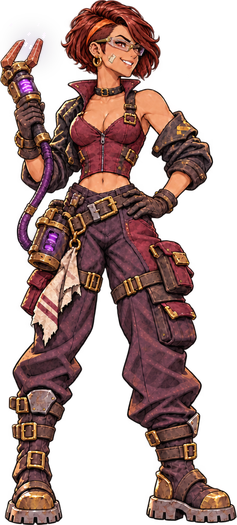
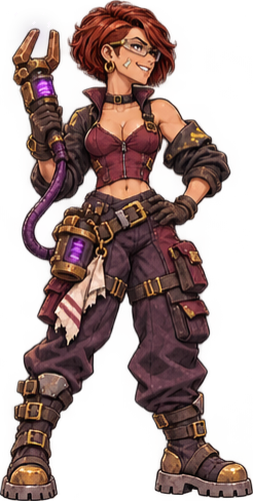
0.265.0: Rogue Tailor, Arc Welder motion and larger skin previews

diff --git a/apps/web/src/fight/FightView.tsx b/apps/web/src/fight/FightView.tsx
@@ -134,6 +134,7 @@ import {
   ARC_WELDER_SKIN,
   DEMON_KNIGHT_SKIN,
   NOVA_RONIN_SKIN,
+  ROGUE_TAILOR_SKIN,
   UNIT_SHEET_PREFIX,
   heroRigFor,
 } from '../art/heroRigs';
@@ -336,7 +337,7 @@ function specsFrom(
         hero ? heroFigure(u.def, skin) : unitFigure(waiting ? baseForm : form),
       );
       const canvas = flip && u.kind !== 'enemy' ? mirror(raw) : raw;
-      // (the Demon Knight's size is his model's own displayScale, the Knight's: no factor here, DECISIONS #773)
+      // (animated skin sizes come from their sheet manifests, DECISIONS #773)
       const k = figureScale(mode, hero);
       const height =
         fitHeight(
@@ -447,11 +448,17 @@ function specsFrom(
     for (const e of sized) {
       const { skin } = e;
       const rigId = e.hero ? heroRigFor(e.u.def, skin) : undefined;
-      const attack = attackFor(e.u.def, e.hero);
+      let attack = attackFor(e.u.def, e.hero);
       const demonKnight = skin === DEMON_KNIGHT_SKIN;
       const novaRonin = skin === NOVA_RONIN_SKIN;
       const arcWelder = skin === ARC_WELDER_SKIN;
+      const rogueTailor = skin === ROGUE_TAILOR_SKIN;
       const hornet = e.form === ARC_WELDER_HORNET;
+      if (arcWelder) attack = { kind: 'shoot', tint: '#c477ff' };
+      if (hornet) attack = { kind: 'stab', tint: '#c477ff' };
+      if (novaRonin) attack = { ...attack, tint: '#b46bff' };
+      if (demonKnight) attack = { ...attack, tint: '#ff354b' };
+      if (rogueTailor) attack = { kind: 'stab', tint: '#eab06d' };
       const prop = e.hero && !flip && !novaRonin ? heroProp(e.u.def) : undefined;
       // the floating blade shows while a card tagged 'blade' is in her hand
       const holding = s.sides[side].hand.some((c) => db.cards[c.card]?.tags?.includes('blade'));
@@ -493,16 +500,8 @@ function specsFrom(
         canvas: e.canvas,
         height: e.height * (e.hero || e.boss ? 1 : fit.scale),
         ...(e.hover > 0 ? { hover: e.hover * (e.boss ? 1 : fit.scale) } : {}),
-        attack: arcWelder
-          ? { kind: 'shoot', tint: '#c477ff' }
-          : hornet
-            ? { kind: 'stab', tint: '#c477ff' }
-            : novaRonin
-              ? { ...attack, tint: '#b46bff' }
-              : demonKnight
-                ? { ...attack, tint: '#ff354b' }
-                : attack,
-        ...(demonKnight || novaRonin || arcWelder ? { builtInWeapon: true } : {}),
+        attack,
+        ...(demonKnight || novaRonin || arcWelder || rogueTailor ? { builtInWeapon: true } : {}),
         ...(e.hero ? { hero: e.u.def } : {}),
         ...(prop ? { prop: { ...prop, on: holding } } : {}),
         ...(rigId

diff --git a/apps/web/src/fight/heroSheet.ts b/apps/web/src/fight/heroSheet.ts
@@ -24,6 +24,8 @@ interface SheetClip {
   loop: boolean;
   count: number;
   holdLast?: boolean;
+  /** Seconds of visible anticipation before impact, when the clip needs more than the default. */
+  strikeLead?: number;
   events?: { name: string; frame: number; time: number }[];
   frames: SheetFrame[];
 }
@@ -76,11 +78,13 @@ export const STRIKE_LEAD = 0.1;
 /** Where in a strike clip playback starts, in seconds (on a frame): its first moment less STRIKE_LEAD, never before the clip. */
 export function strikeStart(c: {
   fps: number;
+  strikeLead?: number;
   events?: { frame: number }[];
 }): number {
   const first = Math.min(...(c.events ?? []).map((e) => e.frame));
   if (!Number.isFinite(first) || c.fps <= 0) return 0;
-  return Math.max(0, first - Math.round(STRIKE_LEAD * c.fps)) / c.fps;
+  const lead = c.strikeLead ?? STRIKE_LEAD;
+  return Math.max(0, first - Math.round(lead * c.fps)) / c.fps;
 }
 
 /** the moment the board waits for in each clip */
@@ -305,7 +309,7 @@ export class SheetHeroSprite {
    * that must hold the whole figure (the Store's and the Collection's). */
   restSpan(height: number): { left: number; right: number } {
     const b = this.boxes.get('idle')!;
-    const u = height / (this.fitH * (this.a.man.displayScale ?? 1));
+    const u = height / this.fitH;
     const left = -b.x0 * u;
     const right = (b.x0 + b.w) * u;
     return this.facing === 'right' ? { left, right } : { left: right, right: left };

diff --git a/apps/web/src/app/patchNotes.ts b/apps/web/src/app/patchNotes.ts
@@ -46,6 +46,31 @@ export const KIND_LABEL: Record<NoteKind, string> = {
 
 export const PATCH_NOTES: PatchNote[] = [
   {
+    version: '0.265.0',
+    date: '2026-11-12',
+    title: 'Rogue Tailor',
+    summary: 'A free animated Rogue skin, larger previews in the Store, and new Arc Welder animations.',
+    notes: [
+      {
+        kind: 'new',
+        title: 'Rogue Tailor',
+        hero: 'assassin',
+        text: 'Claim this free Rogue skin in the Store. A gold glint runs down her dagger as she waits, and a wine-red trail follows her strike.',
+      },
+      {
+        kind: 'changed',
+        title: 'Arc Welder',
+        hero: 'engineer',
+        text: 'Arc Welder steps into a quick taser shot, then steps back into ready. In her idle, she blinks as violet power pulses through her gear.',
+      },
+      {
+        kind: 'changed',
+        title: 'Skin sizes',
+        text: 'Demon Knight, Nova Ronin and Arc Welder stand larger in battle. The Store gives all four animated skins more room.',
+      },
+    ],
+  },
+  {
     version: '0.264.0',
     date: '2026-11-12',
     title: 'Arc Welder',

diff --git a/apps/web/src/art/heroRigs.ts b/apps/web/src/art/heroRigs.ts
@@ -28,11 +28,13 @@ export const HERO_SHEETS: ReadonlySet<string> = new Set([
 export const DEMON_KNIGHT_SKIN = 'knight-demon-knight';
 export const NOVA_RONIN_SKIN = 'spellblade-nova-ronin';
 export const ARC_WELDER_SKIN = 'engineer-arc-welder';
+export const ROGUE_TAILOR_SKIN = 'assassin-rogue-tailor';
 export const ARC_WELDER_HORNET = 'arc-welder-hornet';
 export const ANIMATED_SKINS: ReadonlySet<string> = new Set([
   DEMON_KNIGHT_SKIN,
   NOVA_RONIN_SKIN,
   ARC_WELDER_SKIN,
+  ROGUE_TAILOR_SKIN,
 ]);
 export const AVAILABLE_SKINS = SKINS.filter(({ id }) => ANIMATED_SKINS.has(id));
 

diff --git a/apps/web/src/app/store.css b/apps/web/src/app/store.css
@@ -261,6 +261,13 @@
   color: var(--c-gold-light);
 }
 
+.shop--store .shop__grid {
+  grid-template-columns: repeat(auto-fill, minmax(min(14.5rem, 100%), 1fr));
+}
+.shop--store .look__stage {
+  height: 18rem;
+}
+
 /* a phone: the class names go, the icons stay */
 @media (max-width: 640px) {
   .shop__class--icon span {
@@ -274,6 +281,12 @@
   }
   .look__stage {
     height: 11rem;
+  }
+  .shop--store .shop__grid {
+    grid-template-columns: repeat(auto-fill, minmax(min(10.5rem, 100%), 1fr));
+  }
+  .shop--store .look__stage {
+    height: 13.5rem;
   }
 }
 

diff --git a/packages/content/src/v2/cosmetics.ts b/packages/content/src/v2/cosmetics.ts
@@ -28,6 +28,7 @@ export const SKINS: readonly SkinDef[] = [
   skin('trickster', 'crimson-illusionist'),
   skin('trickster', 'gender-male'),
   skin('assassin', 'gilded-corsair'),
+  skin('assassin', 'rogue-tailor'),
   skin('assassin', 'gender-female'),
   skin('shaman', 'autumn-oracle'),
   skin('shaman', 'gender-female'),

diff --git a/CHANGELOG.md b/CHANGELOG.md
@@ -1,3 +1,9 @@
+## 0.265.0 - 2026-11-12
+
+- Added Rogue Tailor, a free animated Rogue skin with a rose braid, tall embroidered boots and a gold glint along her dagger.
+- Demon Knight, Nova Ronin and Arc Welder stand larger in battle. The Store gives all four animated skins larger previews.
+- Arc Welder steps into a quick taser shot and recovers. In her idle, she blinks as violet power pulses through her gear. Her reactions have new poses.
+
 ## 0.264.0 - 2026-11-12
 
 - Added Arc Welder, an animated copper-haired Engineer skin with a violet taser and a brass hornet look for her combat drones.
